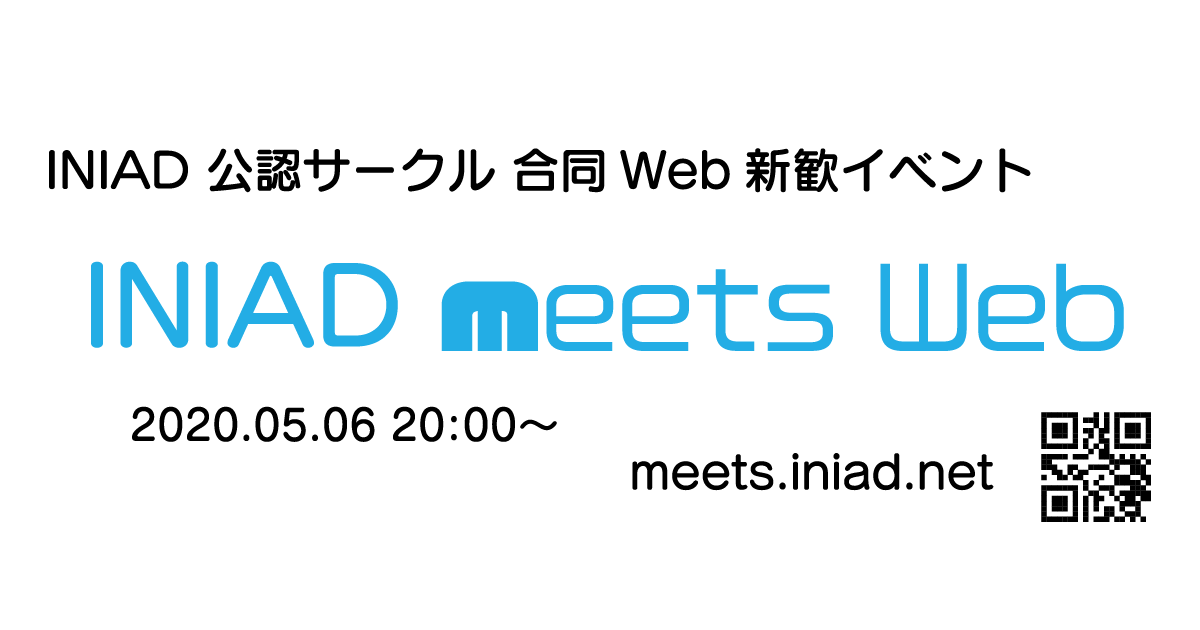
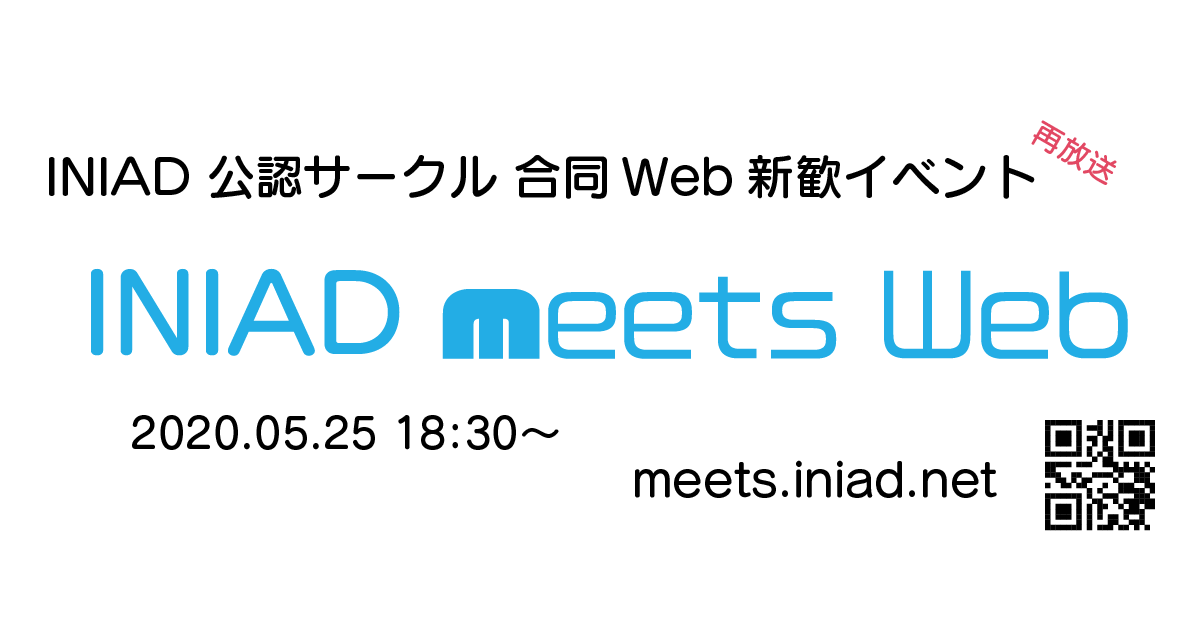
再放送用に開催時間等を変更

diff --git a/meets/templates/meets/pre.html b/meets/templates/meets/pre.html
@@ -42,15 +42,18 @@
 	</div>
 	<section>
 		<div id="info">
-			<p id="date"><time>5.6 Wed. 20:00〜</time><br><time style="font-size: 0.8em">(19:30 Open)</time></p>
+			<p id="date"><time>5.25 Wed. 18:30〜</time><br><time style="font-size: 0.8em">(18:00 Open)</time></p>
 			<p>今、ご覧のページにて。</p>
 			<p class="small">
-				延期のお詫びとお知らせ<br>
+				再放送のお知らせ<br>
 				<span style="font-size: 0.8em">
-				誠に申し訳ありませんが複数のトラブルにより当初予定の4/24 20時よりの開催が非常に難しいと判断したため<br>
-				誠に勝手ではございますが、5/6 20時開始へ延期させていただきます。<br>
-				当イベントを楽しみにしていただき、お集まりいただきました多くの皆さまに心からお詫び申し上げます。<br>
-				誠に勝手ではございますが、5/6 20時に改めてお越しいただけますと大変嬉しいです。<br>
+					5/6に開催いたしました本放送の際は大変多くの皆さまにご参加いただき誠にありがとうございました。<br>
+					一方で、当日トラブル等で快適に視聴出来なかった方が多くいらっしゃったようで、誠に申し訳ありませんでした。<br>
+					<br>
+					つきましては、当日快適に視聴出来なかった方や予定等によりご参加いただけなかった方に向けて<br>
+					5/25 18:30より再放送を実施させていただきます。<br>
+					5/6より大幅にサーバー等を増強し、当日より快適に視聴いただけるよう準備を進めております。<br>
+					ぜひ皆さまお誘い合わせの上、お越しください。
 				</span>
 			</p>
 			<p class="small">

diff --git a/meets/views.py b/meets/views.py
@@ -8,7 +8,7 @@ from .models import Entry, Circle, UserRole, ChatLog, Status
 
 # Create your views here.
 def app(request):
-    if datetime.datetime.now() < datetime.datetime.fromtimestamp(1588761000) and not request.user.is_superuser:
+    if datetime.datetime.now() < datetime.datetime.fromtimestamp(1590397200) and not request.user.is_superuser:
         return render(request, "meets/pre.html")
     if not request.user.is_authenticated:
         return render(request, "meets/top.html")
